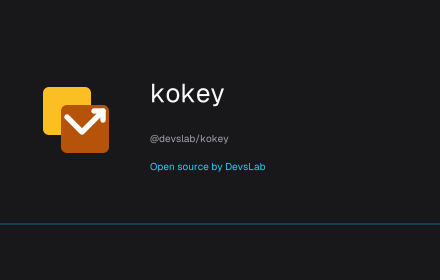
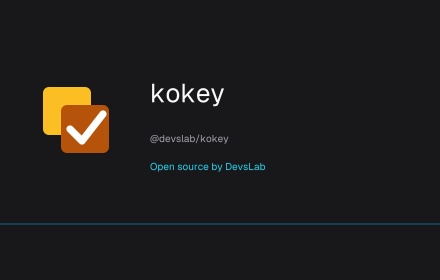
feat: adopt oss-brand v0.3.0 simplified Q-line assets
Swap the vendored project mark, README header, favicon, and social
assets to the v0.3.0 release (routes simplified for small-size
legibility) and re-pin the brand manifest / checksum gates.

Claude-Session: https://claude.ai/code/session_01KvWUEEARtsRqAmdSKdVAgj

Changed region(s): [[0.1477, 0.3714, 0.2659, 0.5143]]

diff --git a/site/index.html b/site/index.html
@@ -18,12 +18,12 @@
 <meta property="og:image" content="https://devslab-kr.github.io/kokey/og.png">
 <meta property="og:image:width" content="1200">
 <meta property="og:image:height" content="630">
-<meta property="og:image:alt" content="kokey O05 — two key surfaces connected by a correction path. Open source by DevsLab.">
+<meta property="og:image:alt" content="kokey O05 — a completed correction stroke across key input. Open source by DevsLab.">
 <meta name="twitter:card" content="summary_large_image">
 <meta name="twitter:title" content="kokey — wrong-keyboard-layout converter">
 <meta name="twitter:description" content="Restore text typed with the wrong keyboard layout across eight supported layouts.">
 <meta name="twitter:image" content="https://devslab-kr.github.io/kokey/og.png">
-<meta name="twitter:image:alt" content="kokey O05 — two key surfaces connected by a correction path. Open source by DevsLab.">
+<meta name="twitter:image:alt" content="kokey O05 — a completed correction stroke across key input. Open source by DevsLab.">
 <style>
   :root {
     --bg: #0f1117; --panel: #171a23; --line: #262b38;
